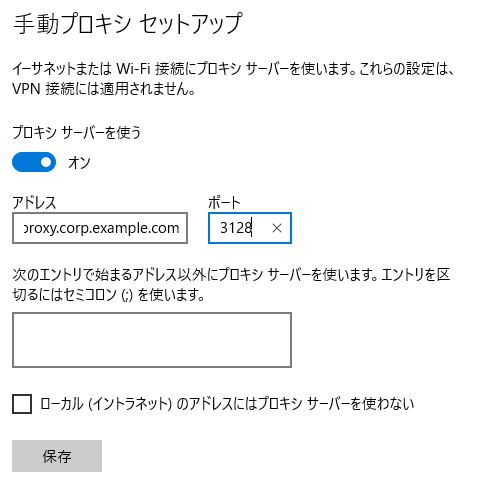
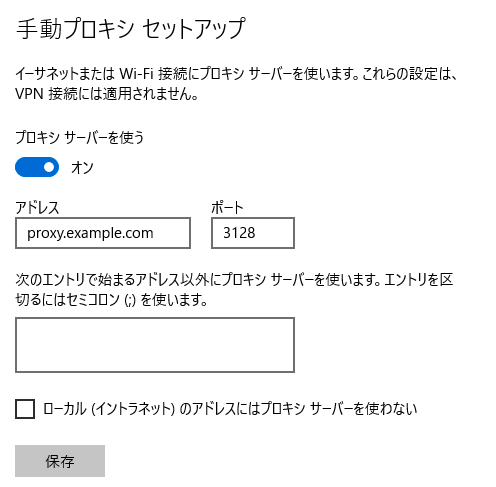
update

diff --git a/cdksample/vpc_peering_stack.py b/cdksample/vpc_peering_stack.py
@@ -11,7 +11,6 @@ class VpcPeeringStack(core.Stack):
 
         workspaces_vpc = props['workspaces_vpc']
         analytics_vpc = props['analytics_vpc']
-        sap_vpc = props['sap_vpc']
 
         # WorkSpaces用VPCから分析用VPCへのピアリング
         workspaces_to_analytics_vpc_peering = ec2.CfnVPCPeeringConnection(
@@ -19,14 +18,6 @@ class VpcPeeringStack(core.Stack):
             vpc_id=workspaces_vpc.vpc_id,
             peer_vpc_id=analytics_vpc.vpc_id,
             tags=[core.CfnTag(key='Name', value='{}/WorkSpacesToAnalyticsVPCPeering'.format(self.stack_name))]
-        )
-
-        # WorkSpaces用VPCからSAP用VCPへのピアリング
-        workspaces_to_sap_vpc_peering = ec2.CfnVPCPeeringConnection(
-            self, 'WorkSpacesToSapVPCPeering',
-            vpc_id=workspaces_vpc.vpc_id,
-            peer_vpc_id=sap_vpc.vpc_id,
-            tags=[core.CfnTag(key='Name', value='{}/WorkSpacesToSapVPCPeering'.format(self.stack_name))]
         )
 
         # WorkSpaces用VPCのIsolated Subnetから分析用VPCとSAP用VPCへのルート
@@ -37,12 +28,6 @@ class VpcPeeringStack(core.Stack):
                 destination_cidr_block=analytics_vpc.vpc_cidr_block,
                 vpc_peering_connection_id=workspaces_to_analytics_vpc_peering.ref
             )
-            sap_route = ec2.CfnRoute(
-                self, 'SapPeerRoute{}'.format(subnet.to_string()),
-                route_table_id=subnet.route_table.route_table_id,
-                destination_cidr_block=sap_vpc.vpc_cidr_block,
-                vpc_peering_connection_id=workspaces_to_sap_vpc_peering.ref
-            )
 
         # 分析用VPCのIsolated SubnetからWorkSpaces用VPCへのルート
         for subnet in analytics_vpc.select_subnets(subnet_type=ec2.SubnetType.ISOLATED).subnets:
@@ -51,15 +36,6 @@ class VpcPeeringStack(core.Stack):
                 route_table_id=subnet.route_table.route_table_id,
                 destination_cidr_block=workspaces_vpc.vpc_cidr_block,
                 vpc_peering_connection_id=workspaces_to_analytics_vpc_peering.ref
-            )
-
-        # SAP用VPCのPrivate SubnetからWorkSpaces用VPCへのルート
-        for subnet in sap_vpc.select_subnets(subnet_type=ec2.SubnetType.PRIVATE).subnets:
-            route = ec2.CfnRoute(
-                self, 'PeerRoute{}'.format(subnet.to_string()),
-                route_table_id=subnet.route_table.route_table_id,
-                destination_cidr_block=workspaces_vpc.vpc_cidr_block,
-                vpc_peering_connection_id=workspaces_to_sap_vpc_peering.ref
             )
 
         self.output_props = props.copy()

diff --git a/app.py b/app.py
@@ -5,7 +5,6 @@ from aws_cdk import core
 from cdksample.test_stack import TestStack
 from cdksample.workspaces_vpc_stack import WorkSpacesVpcStack
 from cdksample.analytics_vpc_stack import AnalyticsVpcStack
-from cdksample.sap_vpc_stack import SapVpcStack
 from cdksample.vpc_peering_stack import VpcPeeringStack
 from cdksample.iam_stack import IamStack
 from cdksample.bucket_stack import BucketStack
@@ -17,7 +16,6 @@ from cdksample.audit_log_stack import AuditLogStack
 from cdksample.events_stack import EventsStack
 from cdksample.global_events_stack import GlobalEventsStack
 from cdksample.config_stack import ConfigStack
-from cdksample.guardduty_stack import GuardDutyStack
 
 
 app = core.App()
@@ -41,9 +39,6 @@ props = workspaces_vpc_stack.outputs
 analytics_vpc_stack = AnalyticsVpcStack(app, '{}-AnalyticsVpcStack'.format(prefix), env=env, props=props)
 props = analytics_vpc_stack.outputs
 
-sap_vpc_stack = SapVpcStack(app, '{}-SapVpcStack'.format(prefix), env=env, props=props)
-props = sap_vpc_stack.outputs
-
 vpc_peering_stack = VpcPeeringStack(app, '{}-VpcPeeringStack'.format(prefix), env=env, props=props)
 props = vpc_peering_stack.outputs
 
@@ -64,9 +59,6 @@ props = global_events_stack.outputs
 
 config_stack = ConfigStack(app, '{}-ConfigStack'.format(prefix), env=env, props=props)
 props = config_stack.outputs
-
-guardduty_stack = GuardDutyStack(app, '{}-GuardDutyStack'.format(prefix), env=env, props=props)
-props = guardduty_stack.outputs
 
 proxy_stack = ProxyStack(app, '{}-ProxyStack'.format(prefix), env=env, props=props)
 props = proxy_stack.outputs

diff --git a/cdksample/iam_stack.py b/cdksample/iam_stack.py
@@ -398,16 +398,16 @@ class IamStack(core.Stack):
                 iam.PolicyStatement(
                     actions=[
                         "iam:ChangePassword",
-                        # "iam:CreateAccessKey",
+                        "iam:CreateAccessKey",
                         "iam:CreateVirtualMFADevice",
                         "iam:DeactivateMFADevice",
-                        # "iam:DeleteAccessKey",
+                        "iam:DeleteAccessKey",
                         "iam:DeleteVirtualMFADevice",
                         "iam:EnableMFADevice",
                         "iam:GetAccountPasswordPolicy",
-                        # "iam:UpdateAccessKey",
-                        # "iam:UpdateSigningCertificate",
-                        # "iam:UploadSigningCertificate",
+                        "iam:UpdateAccessKey",
+                        "iam:UpdateSigningCertificate",
+                        "iam:UploadSigningCertificate",
                         "iam:UpdateLoginProfile",
                         "iam:ResyncMFADevice"
                     ],
@@ -443,7 +443,7 @@ class IamStack(core.Stack):
                     resources=['*'],
                     conditions={
                         'NotIpAddress': {
-                            'aws:SourceIp': self.node.try_get_context('nat_gateway_eips')
+                            'aws:SourceIp': self.node.try_get_context('allow_ips')
                         }
                     }
                 )

diff --git a/cdksample/sagemaker_stack.py b/cdksample/sagemaker_stack.py
@@ -36,18 +36,19 @@ class SageMakerStack(core.Stack):
         )
 
         # Notebookインスタンス
-        for i in range(self.node.try_get_context('sagemaker')['number_of_notebooks']):
+        i = 0
+        for notebook_instance_name in self.node.try_get_context('sagemaker')['notebook_instance_names']:
             notebook_instance = sagemaker.CfnNotebookInstance(
-                self, 'NotebookInstance{}'.format(i + 1),
+                self, '{}NotebookInstance'.format(notebook_instance_name),
                 instance_type=self.node.try_get_context('sagemaker')['instance_type'],
-                notebook_instance_name='{}{}'.format(
-                    self.node.try_get_context('sagemaker')['notebook_instance_name'], i + 1),
-                subnet_id=vpc.select_subnets(subnet_type=ec2.SubnetType.ISOLATED).subnet_ids[i % 2],
+                notebook_instance_name=notebook_instance_name,
+                subnet_id=vpc.select_subnets(subnet_type=ec2.SubnetType.ISOLATED).subnet_ids[i],
                 security_group_ids=[notebook_sg.security_group_id],
                 role_arn=notebook_execution_role.role_arn,
                 direct_internet_access='Disabled',
                 kms_key_id=customer_key.key_id
             )
+            i += 1
 
         self.output_props = props.copy()
 

diff --git a/cdksample/redshift_stack.py b/cdksample/redshift_stack.py
@@ -13,6 +13,7 @@ class RedshiftStack(core.Stack):
 
         vpc = props['analytics_vpc']
         endpoint_sg = props['analytics_endpoint_sg']
+        workspaces_sg = props['workspaces_workspaces_sg']
         customer_key = props['customer_key']
 
         # 参考リンク
@@ -25,7 +26,7 @@ class RedshiftStack(core.Stack):
             assumed_by=iam.ServicePrincipal('redshift.amazonaws.com')
         )
 
-        # セキュリティーグループ
+        # セキュリティグループ
         redshift_sg = ec2.SecurityGroup(
             self, 'RedshiftSecurityGroup',
             vpc=vpc
@@ -34,6 +35,11 @@ class RedshiftStack(core.Stack):
         redshift_sg.connections.allow_to(
             other=endpoint_sg,
             port_range=ec2.Port.all_traffic()
+        )
+        # WorkSpacesのセキュリティグループからのアクセスを許可
+        redshift_sg.connections.allow_from(
+            other=workspaces_sg,
+            port_range=ec2.Port.tcp(self.node.try_get_context('redshift')['port'])
         )
 
         # クラスターパラメーターグループ

diff --git a/cdksample/config_stack.py b/cdksample/config_stack.py
@@ -14,7 +14,6 @@ class ConfigStack(core.Stack):
 
         alert_topic = props['alert_topic']
         workspaces_vpc = props['workspaces_vpc']
-        sap_vpc = props['sap_vpc']
         log_bucket = props['log_bucket']
 
         default_vpc = ec2.Vpc.from_lookup(
@@ -146,7 +145,7 @@ class ConfigStack(core.Stack):
             config_rule_name='internet-gateway-authorized-vpc-only',
             description='インターネットゲートウェイ (IGW) が承認された Amazon Virtual Private Cloud (VPC) にのみ接続されていることを確認します。IGW が承認された VPC に接続されていない場合、ルールは NON_COMPLIANT です。',
             input_parameters={
-                "AuthorizedVpcIds": "{},{},{}".format(default_vpc.vpc_id, workspaces_vpc.vpc_id, sap_vpc.vpc_id)
+                "AuthorizedVpcIds": "{},{}".format(default_vpc.vpc_id, workspaces_vpc.vpc_id)
             }
         )
         internet_gateway_authorized_vpc_only_rule.scope_to_resource('AWS::EC2::InternetGateway')

diff --git a/cdksample/workspaces_vpc_stack.py b/cdksample/workspaces_vpc_stack.py
@@ -54,13 +54,13 @@ class WorkSpacesVpcStack(core.Stack):
         )
 
         # CloudWatchのVPCエンドポイントの作成
-        cloudwatch_endpoint = vpc.add_interface_endpoint(
-            id='CloudWatchEndpoint',
-            service=ec2.InterfaceVpcEndpointAwsService.CLOUDWATCH,
-            private_dns_enabled=True,
-            security_groups=[endpoint_sg],
-            subnets=ec2.SubnetSelection(subnet_type=ec2.SubnetType.ISOLATED)
-        )
+        # cloudwatch_endpoint = vpc.add_interface_endpoint(
+        #     id='CloudWatchEndpoint',
+        #     service=ec2.InterfaceVpcEndpointAwsService.CLOUDWATCH,
+        #     private_dns_enabled=True,
+        #     security_groups=[endpoint_sg],
+        #     subnets=ec2.SubnetSelection(subnet_type=ec2.SubnetType.ISOLATED)
+        # )
         # CloudWatch LogsのVPCエンドポイントの作成
         cloudwatch_logs_endpoint = vpc.add_interface_endpoint(
             id='CloudWatchLogsEndpoint',

diff --git a/cdksample/events_stack.py b/cdksample/events_stack.py
@@ -36,6 +36,16 @@ class EventsStack(core.Stack):
         for email in emails:
             alert_topic.add_subscription(subscriptions.EmailSubscription('sotoiwa@gmail.com'))
 
+        # GuardDutyの通知設定
+        guardduty_rule = events.Rule(
+            self, 'GuardDutyRule',
+            event_pattern=events.EventPattern(
+                source=['aws.guardduty'],
+                detail_type=['GuardDuty Finding']
+            )
+        )
+        guardduty_rule.add_target(targets.SnsTopic(alert_topic))
+
         # EC2の監視対象イベントのリスト
         ec2_event_names = [
             "AttachInternetGateway",
@@ -46,7 +56,7 @@ class EventsStack(core.Stack):
             "DeleteRoute",
             "DeleteRouteTable",
             "DeleteDhcpOptions",
-            "DisassociateRouteTable"
+            "DisassociateRouteTable",
             "RunInstances",
             "CreateInstances",
             "LaunchInstances",

diff --git a/cdksample/audit_log_stack.py b/cdksample/audit_log_stack.py
@@ -14,10 +14,9 @@ class AuditLogStack(core.Stack):
         log_bucket = props['log_bucket']
         workspaces_vpc = props['workspaces_vpc']
         analytics_vpc = props['analytics_vpc']
-        sap_vpc = props['sap_vpc']
 
         # VPC FlowLogsを有効化
-        for vpc in [workspaces_vpc, analytics_vpc, sap_vpc]:
+        for vpc in [workspaces_vpc, analytics_vpc]:
             flowlogs = ec2.CfnFlowLog(
                 self, 'FlowLogs{}'.format(vpc.to_string()),
                 resource_id=vpc.vpc_id,

diff --git a/workspaces.md b/workspaces.md
@@ -34,8 +34,8 @@
 
   |項目|設定値|備考|
   |---|---|---|
-  |サブネット1|Isolatedサブネット||
-  |サブネット2|Isolatedサブネット||
+  |サブネット1|Isolatedサブネット|別途VPCコンソールを開いてサブネットのIDを確認して下さい|
+  |サブネット2|Isolatedサブネット|別途VPCコンソールを開いてサブネットのIDを確認して下さい|
   |セルフサービスアクセス許可の有効化|いいえ||
   |Amazon WorkDocs の有効化|いいえ||
 
@@ -253,9 +253,9 @@ WorkSpacesクライアントを起動します。
   |項目|設定値|備考|
   |---|---|---|
   |プロキシサーバーを使う|オン||
-  |アドレス|`proxy.corp.example.com`||
+  |アドレス|`proxy.example.com`|`proxy.<cdk.context.jsonのproxy.domainで指定したドメイン名>`を指定する|
   |ポート|`3128`||
 
-![](images/workspaces05.png)
+![](2020-01-26-01-14-55.png)
 
 1. `https://<アカウントID>.signin.aws.amazon.com/console`にアクセスし、アクセスできることを確認します。
